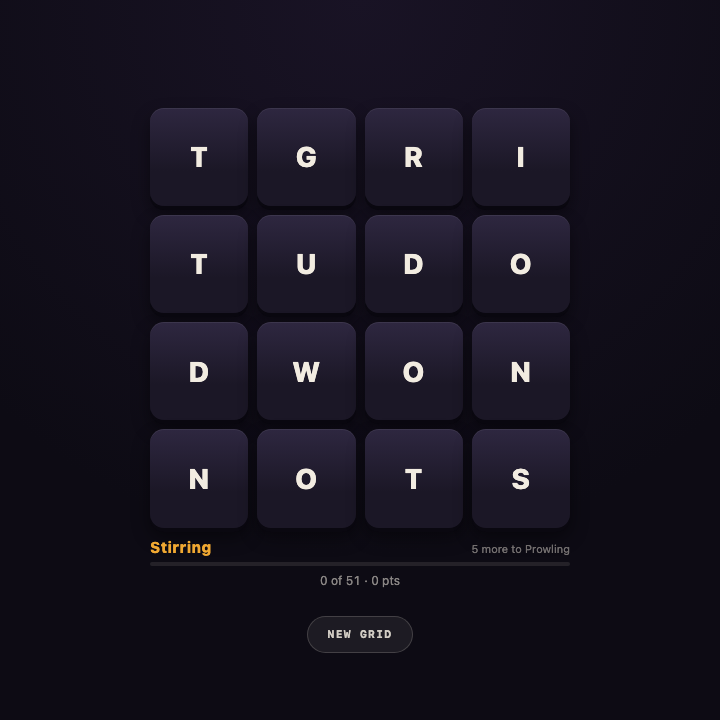
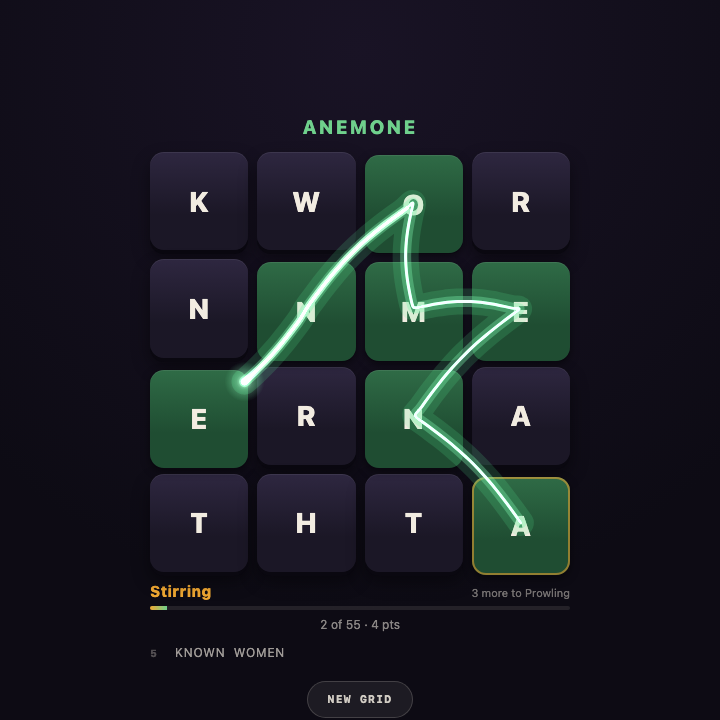
Word Kraven's card: photograph a hunt in progress, not a dead grid
The card was an untouched board — grey tiles, no trail, no colour, 0 of 51.
In the gallery that is worse than it sounds, because .card__preview shows only
a middle band (measured 287x118, ~41% of the height), so the whole thumbnail
was three rows of flat grey letters with nothing saying it is a game.

The pose was the cause, and for a defensible reason: grids are generated in the
browser from unseeded Math.random(), so a hardcoded trace spells nonsense and
the card ends up advertising a struck-through dead word. It gave up and shot a
clean board instead.

So the pose now SOLVES whatever grid it is dealt — reads the letters out of the
DOM, fetches the toy's own words.txt, searches it, and traces a real word with
real PointerEvents. Still no debug hook. It banks two words first so the board
is not sitting at zero, then holds the hero gesture DOWN, so the capture catches
it live: lit tiles, the freehand glow trail, and the word reading green above.

Three details that took a pass each. It stops at two found words because
showCta() fires at three and pushes the vertically centred shell up out of the
crop. It prefers five-letter banked words because the four-letter leftovers of a
random grid are dictionary obscurities that read as typos (the first attempt
banked EWER and RETE). And the crop moved up, cropy 150 to 69, to centre the
board rather than clipping the top row and bleeding the rank text in below.
[…]

diff --git a/scripts/poses/word-kraven.js b/scripts/poses/word-kraven.js
@@ -1,19 +1,189 @@
-// Pose the Word Kraven feeder for its card: dismiss the intro and let the
-// screened grid settle. Deliberately does NOT trace a path — the grid is
-// random per load, so a scripted trace spells nonsense and the card ends up
-// advertising a struck-through dead word. A clean board reads as the game.
+/* Pose Word Kraven for its card: dismiss the intro, then trace a REAL word out
+ * of the grid and hold the gesture so the capture catches the game mid-hunt —
+ * lit tiles, the freehand glow trail, and the word reading green above.
+ *
+ * ⚠ WHY THIS IS NOT A HARDCODED TRACE. Grids here are generated in the browser
+ * from `Math.random()` with no seed, so a fixed path spells nonsense and the
+ * card ends up advertising a struck-through dead word. That is what an earlier
+ * version of this pose gave up on, settling for an untouched board — which
+ * photographed as a dead grid: no trail, no found words, "0 of 51 · 0 pts".
+ * Instead this SOLVES whatever grid it was dealt: it reads the letters out of
+ * the DOM, fetches the toy's own `words.txt`, and searches it. Whatever word it
+ * traces is genuinely there and genuinely valid.
+ *
+ * Still real input only, never a debug hook: letters come from `[data-index]`
+ * text, positions from `getBoundingClientRect`, and the trace is dispatched as
+ * PointerEvents that the toy's own handlers hit-test exactly like a finger.
+ *
+ * ⚠ Stops at TWO found words on purpose. `showCta()` reveals the feeder's CTA
+ * block at three, which pushes the vertically-centred shell up and out of the
+ * crop. Two is enough to put words on the board and move the meter.
+ */
 (function () {
-  var btn = document.getElementById("ovBtn");
-  if (btn && !btn.disabled) btn.click();
-  return new Promise(function (r) { setTimeout(r, 400); });
+  "use strict";
+
+  var N = 4, MINLEN = 4, MAXLEN = 8;
+  var grid = document.getElementById("grid");
+  var ov = document.getElementById("ovBtn");
+  if (ov && !ov.disabled) ov.click();
+
+  function sleep(ms) { return new Promise(function (r) { setTimeout(r, ms); }); }
+
+  function readLetters() {
+    var out = [], t = grid.querySelectorAll("[data-index]");
+    for (var i = 0; i < t.length; i++) {
+      out[parseInt(t[i].getAttribute("data-index"), 10)] = t[i].textContent.trim().toLowerCase();
+    }
+    return out;
+  }
+
+  function centre(i) {
+    var r = grid.querySelector('[data-index="' + i + '"]').getBoundingClientRect();
+    return { x: r.left + r.width / 2, y: r.top + r.height / 2 };
+  }
+
+  function adjacent(a, b) {
+    var ar = (a / N) | 0, ac = a % N, br = (b / N) | 0, bc = b % N;
+    return a !== b && Math.abs(ar - br) <= 1 && Math.abs(ac - bc) <= 1;
+  }
+
+  /* The toy keeps its dictionary in a closure, so the pose loads its own copy
+   * of the same file rather than reaching into the page. */
+  function loadDict() {
+    return fetch("words.txt").then(function (r) { return r.text(); }).then(function (text) {
+      var words = Object.create(null), pre = Object.create(null);
+      var arr = text.split("\n");
+      for (var i = 0; i < arr.length; i++) {
+        var w = arr[i].trim().toLowerCase();
+        if (w.length < MINLEN || w.length > MAXLEN) continue;
+        words[w] = 1;
+        for (var k = 1; k <= w.length; k++) pre[w.slice(0, k)] = 1;
+      }
+      return { words: words, pre: pre };
+    });
+  }
+
+  function solve(L, D) {
+    var out = [], used = [], path = [];
+    function walk(i, w) {
+      w += L[i];
+      if (!D.pre[w]) return;
+      used[i] = 1; path.push(i);
+      if (w.length >= MINLEN && D.words[w]) out.push({ w: w, path: path.slice() });
+      if (w.length < MAXLEN) {
+        for (var j = 0; j < N * N; j++) if (!used[j] && adjacent(i, j)) walk(j, w);
+      }
+      used[i] = 0; path.pop();
+    }
+    for (var s = 0; s < N * N; s++) walk(s, "");
+    return out;
+  }
+
+  /* A good hero word photographs as a GESTURE: long enough to read as a hunt,
+   * bent rather than a straight run down one column, and centred in the grid so
+   * the trail sits in the band the gallery card actually shows. */
+  function heroScore(c) {
+    var p = c.path, bends = 0, rs = 0, cs = 0;
+    for (var i = 0; i < p.length; i++) { rs += (p[i] / N) | 0; cs += p[i] % N; }
+    for (var j = 2; j < p.length; j++) {
+      var d1r = ((p[j - 1] / N) | 0) - ((p[j - 2] / N) | 0), d1c = (p[j - 1] % N) - (p[j - 2] % N);
+      var d2r = ((p[j] / N) | 0) - ((p[j - 1] / N) | 0), d2c = (p[j] % N) - (p[j - 1] % N);
+      if (d1r !== d2r || d1c !== d2c) bends++;
+    }
+    var mid = (N - 1) / 2;
+    return c.w.length * 12 + bends * 9
+      - Math.abs(rs / p.length - mid) * 14
+      - Math.abs(cs / p.length - mid) * 8
+      - (c.w.length > 7 ? 20 : 0);
+  }
+
+  function pe(type, x, y) {
+    grid.dispatchEvent(new PointerEvent(type, {
+      bubbles: true, cancelable: true, composed: true,
+      pointerId: 1, pointerType: "mouse", isPrimary: true,
+      clientX: x, clientY: y, buttons: type === "pointerup" ? 0 : 1
+    }));
+  }
+
+  /* Dispatch a dense, slightly bowed stroke. The trail draws every sampled
+   * position, so straight centre-to-centre hops would render as a ruled
+   * polyline; the alternating arc is what makes it read as a hand. */
+  function trace(path, release) {
+    var chain = Promise.resolve();
+    var a = centre(path[0]);
+    chain = chain.then(function () { pe("pointerdown", a.x, a.y); return sleep(16); });
+    for (var s = 1; s < path.length; s++) {
+      (function (s) {
+        chain = chain.then(function () {
+          var p0 = centre(path[s - 1]), p1 = centre(path[s]);
+          var dx = p1.x - p0.x, dy = p1.y - p0.y;
+          var nl = Math.hypot(-dy, dx) || 1, nx = -dy / nl, ny = dx / nl;
+          var bow = 8 * (s % 2 ? 1 : -1), STEPS = 16, sub = Promise.resolve();
+          for (var k = 1; k <= STEPS; k++) {
+            (function (k) {
+              sub = sub.then(function () {
+                var t = k / STEPS, b = Math.sin(t * Math.PI) * bow;
+                pe("pointermove", p0.x + dx * t + nx * b, p0.y + dy * t + ny * b);
+                return sleep(6);
+              });
+            })(k);
+          }
+          return sub;
+        });
+      })(s);
+    }
+    if (release) {
+      chain = chain.then(function () {
+        var e = centre(path[path.length - 1]);
+        pe("pointerup", e.x, e.y);
+        return sleep(220);
+      });
+    }
+    return chain;
+  }
+
+  return loadDict().then(function (D) {
+    var all = solve(readLetters(), D);
+    if (!all.length) return sleep(300);           // unsolvable draw: clean board beats a broken pose
+
+    var hero = all.filter(function (c) { return c.w.length >= 5 && c.w.length <= 7; })
+                  .sort(function (a, b) { return heroScore(b) - heroScore(a); })[0]
+             || all.sort(function (a, b) { return b.w.length - a.w.length; })[0];
+
+    // Two short words to bank first, so the board is not sitting at zero.
+    // Five letters before four: the longer ones read as ordinary English, where
+    // the four-letter leftovers of a random grid tend to be the obscure corners
+    // of the dictionary and make the found list look like a typo.
+    var seen = {}, banked = [];
+    [5, 4].forEach(function (len) {
+      all.forEach(function (c) {
+        if (banked.length >= 2 || c.w === hero.w || seen[c.w] || c.w.length !== len) return;
+        seen[c.w] = 1; banked.push(c);
+      });
+    });
+
+    var chain = Promise.resolve();
+    banked.forEach(function (c) { chain = chain.then(function () { return trace(c.path, true); }); });
+    // Hero last, held down: the capture wants the gesture live, not committed.
+    return chain.then(function () { return trace(hero.path, false); });
+  });
 })();
 
-/* Regenerate this toy's card + OG:
+/* Regenerate this toy's card + OG (any port; pass the same one to --base if
+ * 3000 is busy, as it is whenever another project's dev server is up):
  *   python3 -m http.server 3000
  *   node scripts/gen-card.cjs word-kraven --size 720 --vw 720 --vh 1000 \
- *        --cropy 124 --at 200 --motion --eval "$(cat scripts/poses/word-kraven.js)"
+ *        --cropy 69 --at 120 --motion --eval "$(cat scripts/poses/word-kraven.js)"
  *   node scripts/gen-og.cjs word-kraven
- * ⚠ --at counts from AFTER this script's promise resolves. The 1400-tall
- * viewport with cropy 144 centres the board: the shell is vertically centred,
- * so a square capture would leave the grid high with dead space beneath.
+ *
+ * ⚠ Every run deals a DIFFERENT grid and therefore a different word, so this is
+ * a candidate generator, not a deterministic build step: render a handful, look
+ * at them, and keep the one whose word reads as ordinary English and whose
+ * trail sweeps the middle of the board. ANEMONE was chosen over LUTEUM,
+ * DISTILL and BASTION on exactly that basis.
+ * ⚠ Check the RENDERED gallery card, not this square: `.card__preview` shows
+ * only a middle band (measured 287x118, so ~41% of the height).
+ * ⚠ --at counts from AFTER this script's promise resolves, and the promise
+ * resolves with the hero gesture still HELD DOWN. Keep --at short: it is only
+ * there to let the last trail frame paint, and nothing releases the pointer.
  */

diff --git a/assets/styles.css b/assets/styles.css
@@ -1027,7 +1027,7 @@ code, kbd{ font-family: var(--font-mono); font-size: 0.9em; }
 .card__preview[data-slug="twisty-cube"]{ background: #0b0b10 url("cards/twisty-cube.png") center / cover no-repeat; }
 .card__preview[data-slug="glass-harp"]{ background: #05070f url("cards/glass-harp.png") center / cover no-repeat; }
 .card__preview[data-slug="chord-harp"]{ background: #0a0913 url("cards/chord-harp.png") center / cover no-repeat; }
-.card__preview[data-slug="word-kraven"]{ background: #0d0b14 url("cards/word-kraven.png") center / cover no-repeat; }
+.card__preview[data-slug="word-kraven"]{ background: #0d0b14 url("cards/word-kraven.png?v=2") center / cover no-repeat; }
 
 /* Default — clean neutral preview for any future toy */
 .card__preview:not([data-slug="meeting-cost-meter"]):not([data-slug="goo-cursor"]):not([data-slug="breathing-pacer"]):not([data-slug="coin-flipper"]):not([data-slug="dice-roller"]):not([data-slug="magic-eight-ball"]):not([data-slug="blob-choir"]):not([data-slug="tic-tac-toe"]):not([data-slug="rock-paper-scissors"]):not([data-slug="three-doors"]):not([data-slug="memory-match"]):not([data-slug="snake-mini"]):not([data-slug="weird-generative-canvas"]):not([data-slug="star-click-sky"]):not([data-slug="tiny-idle-garden"]):not([data-slug="echo"]):not([data-slug="chimp-test"]):not([data-slug="beat-maker"]):not([data-slug="falling-sand"]):not([data-slug="lava-lamp"]):not([data-slug="bubble-wrap"]):not([data-slug="newtons-cradle"]):not([data-slug="spirograph"]):not([data-slug="plasma-ball"]):not([data-slug="kaleidoscope"]):not([data-slug="ripple-pond"]):not([data-slug="wind-chimes"]):not([data-slug="marble-drop"]):not([data-slug="zen-sand-garden"]):not([data-slug="floating-lanterns"]):not([data-slug="aurora-drift"]):not([data-slug="campfire"]):not([data-slug="fireworks"]):not([data-slug="rain-window"]):not([data-slug="perfect-circle"]):not([data-slug="pin-art"]):not([data-slug="chladni-plate"]):not([data-slug="pottery-wheel"]):not([data-slug="aurebesh-translator"]):not([data-slug="double-pendulum"]):not([data-slug="cloth"]):not([data-slug="gravity-orbits"]):not([data-slug="wooly-willy"]):not([data-slug="slide-puzzle"]):not([data-slug="jigsaw-puzzle"]):not([data-slug="kalimba"]):not([data-slug="tongue-drum"]):not([data-slug="time-is-money"]):not([data-slug="life-in-numbers"]):not([data-slug="latte-factor"]):not([data-slug="sleep-cycle"]):not([data-slug="countdown"]):not([data-slug="slice-it"]):not([data-slug="solitaire"]):not([data-slug="blackjack"]):not([data-slug="stack-tower"]):not([data-slug="music-box"]):not([data-slug="theremin"]):not([data-slug="mini-golf"]):not([data-slug="murmuration"]):not([data-slug="trio"]):not([data-slug="coin-pusher"]):not([data-slug="random-maze"]):not([data-slug="nova-coil"]):not([data-slug="paper-plane"]):not([data-slug="dot-loop"]):not([data-slug="vapor"]):not([data-slug="deep-descent"]):not([data-slug="puffling"]):not([data-slug="marble-machine"]):not([data-slug="rain-stick"]):not([data-slug="sky-fortress"]):not([data-slug="alpenglow"]):not([data-slug="tip-splitter"]):not([data-slug="pomodoro"]):not([data-slug="world-clock"]):not([data-slug="pool"]):not([data-slug="minesweeper"]):not([data-slug="mandelbrot"]):not([data-slug="slime-mold"]):not([data-slug="particle-life"]):not([data-slug="flow-field"]):not([data-slug="reaction-diffusion"]):not([data-slug="ink-marbling"]):not([data-slug="stained-glass"]):not([data-slug="trail-game"]):not([data-slug="spelling-blocks"]):not([data-slug="shuriken-night"]):not([data-slug="deep-hollow"]):not([data-slug="skee-ball"]):not([data-slug="perfect-timing"]):not([data-slug="clowns-balloons"]):not([data-slug="darts"]):not([data-slug="air-hockey"]):not([data-slug="video-poker"]):not([data-slug="glow-pegs"]):not([data-slug="decision-wheel"]):not([data-slug="singing-bowl"]):not([data-slug="color-match"]):not([data-slug="five-second-game"]):not([data-slug="brick-smasher"]):not([data-slug="tossing-cards"]):not([data-slug="accretion"]):not([data-slug="moon-phase"]):not([data-slug="golden-hour"]):not([data-slug="typing-speed"]):not([data-slug="claw-machine"]):not([data-slug="twisty-cube"]):not([data-slug="glass-harp"]):not([data-slug="chord-harp"]):not([data-slug="word-kraven"]):not([data-slug="bowling"]){

diff --git a/all-toys/simulation/index.html b/all-toys/simulation/index.html
@@ -64,7 +64,7 @@
         } catch (e) {}
       })();
     </script>
-    <link rel="stylesheet" href="../../assets/styles.css?v=108" />
+    <link rel="stylesheet" href="../../assets/styles.css?v=109" />
   </head>
   <body data-gallery-mode="all" data-cat="simulation">
     <a class="skip-link" href="#main-content">Skip to content</a>

diff --git a/all-toys/wellness/index.html b/all-toys/wellness/index.html
@@ -64,7 +64,7 @@
         } catch (e) {}
       })();
     </script>
-    <link rel="stylesheet" href="../../assets/styles.css?v=108" />
+    <link rel="stylesheet" href="../../assets/styles.css?v=109" />
   </head>
   <body data-gallery-mode="all" data-cat="wellness">
     <a class="skip-link" href="#main-content">Skip to content</a>

diff --git a/all-toys/utility/index.html b/all-toys/utility/index.html
@@ -64,7 +64,7 @@
         } catch (e) {}
       })();
     </script>
-    <link rel="stylesheet" href="../../assets/styles.css?v=108" />
+    <link rel="stylesheet" href="../../assets/styles.css?v=109" />
   </head>
   <body data-gallery-mode="all" data-cat="utility">
     <a class="skip-link" href="#main-content">Skip to content</a>

diff --git a/all-toys/visual/index.html b/all-toys/visual/index.html
@@ -64,7 +64,7 @@
         } catch (e) {}
       })();
     </script>
-    <link rel="stylesheet" href="../../assets/styles.css?v=108" />
+    <link rel="stylesheet" href="../../assets/styles.css?v=109" />
   </head>
   <body data-gallery-mode="all" data-cat="visual">
     <a class="skip-link" href="#main-content">Skip to content</a>

diff --git a/all-toys/audio/index.html b/all-toys/audio/index.html
@@ -64,7 +64,7 @@
         } catch (e) {}
       })();
     </script>
-    <link rel="stylesheet" href="../../assets/styles.css?v=108" />
+    <link rel="stylesheet" href="../../assets/styles.css?v=109" />
   </head>
   <body data-gallery-mode="all" data-cat="audio">
     <a class="skip-link" href="#main-content">Skip to content</a>

diff --git a/all-toys/game/index.html b/all-toys/game/index.html
@@ -64,7 +64,7 @@
         } catch (e) {}
       })();
     </script>
-    <link rel="stylesheet" href="../../assets/styles.css?v=108" />
+    <link rel="stylesheet" href="../../assets/styles.css?v=109" />
   </head>
   <body data-gallery-mode="all" data-cat="game">
     <a class="skip-link" href="#main-content">Skip to content</a>

diff --git a/all-toys/index.html b/all-toys/index.html
@@ -64,7 +64,7 @@
         } catch (e) {}
       })();
     </script>
-    <link rel="stylesheet" href="../assets/styles.css?v=108" />
+    <link rel="stylesheet" href="../assets/styles.css?v=109" />
   </head>
   <body data-gallery-mode="all">
     <a class="skip-link" href="#main-content">Skip to content</a>

diff --git a/index.html b/index.html
@@ -60,7 +60,7 @@
         } catch (e) {}
       })();
     </script>
-    <link rel="stylesheet" href="assets/styles.css?v=108" />
+    <link rel="stylesheet" href="assets/styles.css?v=109" />
   </head>
   <body data-gallery-mode="home">
     <a class="skip-link" href="#main-content">Skip to content</a>

diff --git a/store/index.html b/store/index.html
@@ -53,7 +53,7 @@
         } catch (e) {}
       })();
     </script>
-    <link rel="stylesheet" href="../assets/styles.css?v=108" />
+    <link rel="stylesheet" href="../assets/styles.css?v=109" />
     <link rel="stylesheet" href="store.css?v=7" />
   </head>
   <body data-store>
